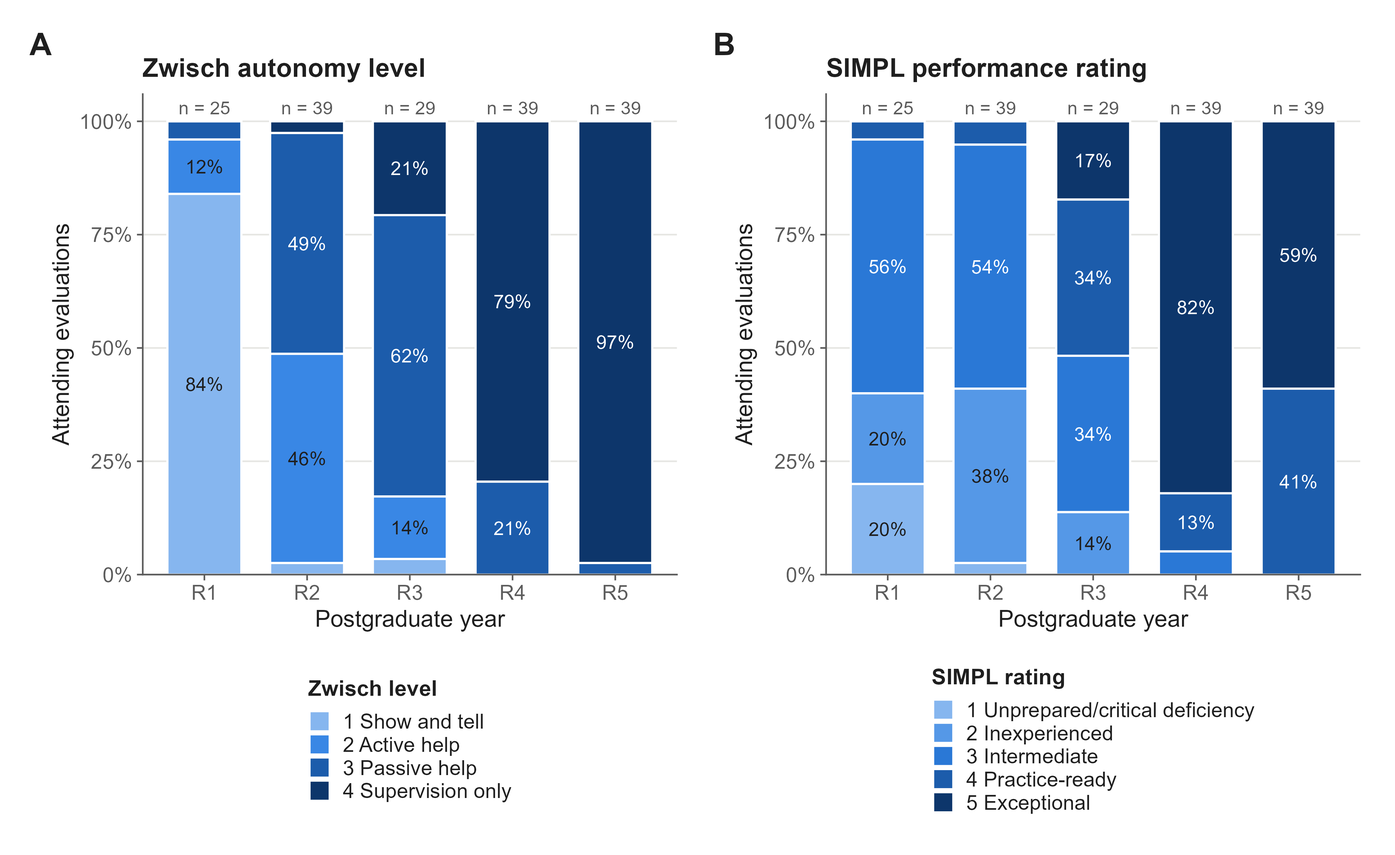
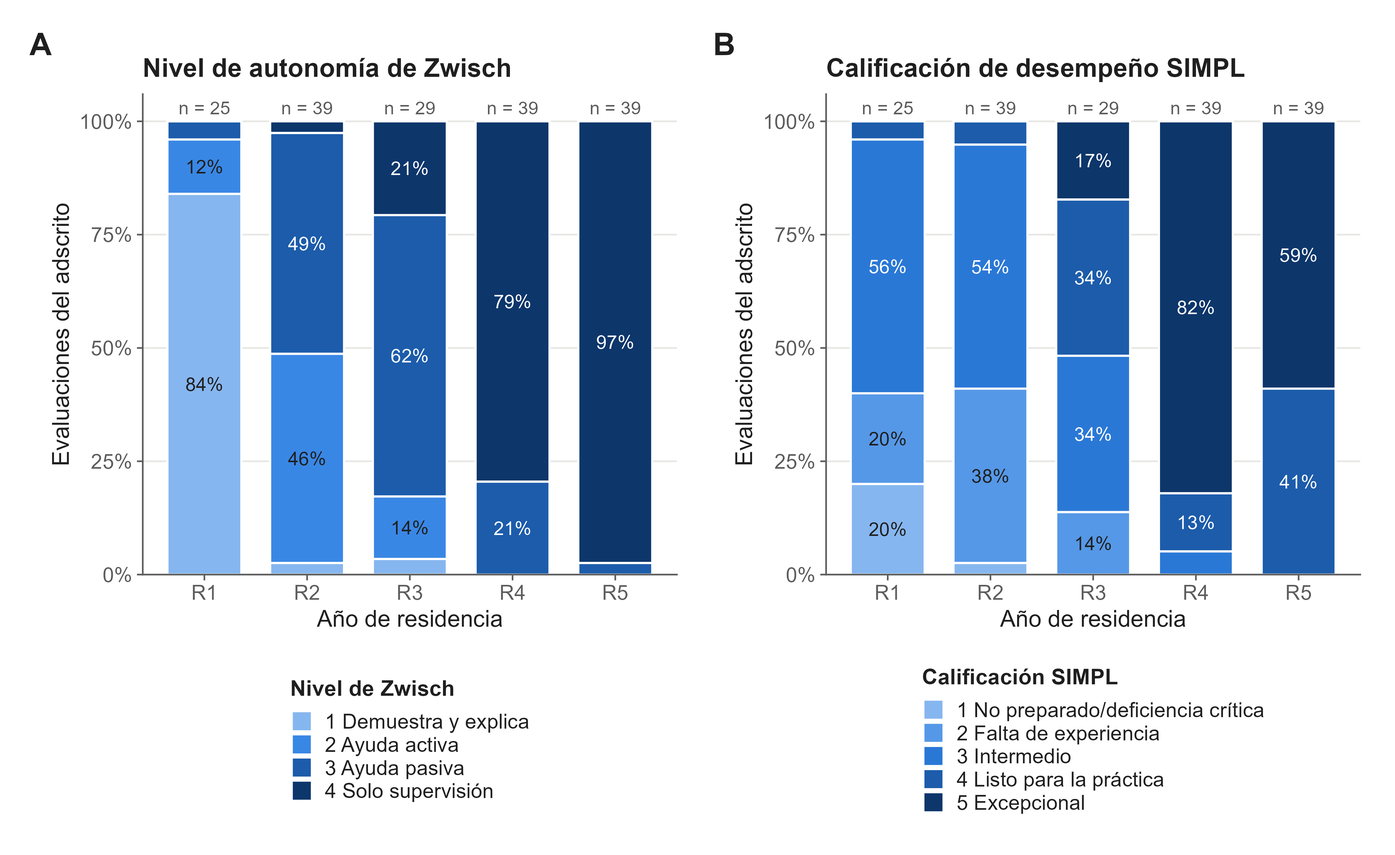
bug corrected for spanish results

diff --git a/Resultados/Figuras/Resultados/Figura_4_Resultados.md b/Resultados/Figuras/Resultados/Figura_4_Resultados.md
@@ -1,49 +1,49 @@
-# Resultados de la Figura 4 — Self vs attending ratings
+# Resultados de la Figura 4 — Autoevaluación vs calificación del adscrito
 
-_Generado el 2026-10-17 19:24 a partir de EPA_SIMPL_Database.xlsx_
+_Generado el 2026-10-17 19:42 a partir de EPA_SIMPL_Database.xlsx_
 
 **Leyenda.** 
-(A, B) Cross-classification of attending ratings (rows) and resident self-ratings (columns) for the 80 surgical cases with both an attending evaluation and a self-assessment, for (A) Zwisch autonomy level and (B) SIMPL performance rating; cell values are numbers of pairs and outlined cells mark exact agreement. (C) Mean difference between self-rating and attending rating (positive values indicate a higher self-rating) by postgraduate year and overall, with 95% CIs from a cluster bootstrap resampling residents (2,000 replicates). The dashed line marks no difference; numbers below the axis are pairs per group.
+(A, B) Clasificación cruzada de las calificaciones del adscrito (filas) y las autoevaluaciones del residente (columnas) en los 80 casos quirúrgicos con evaluación del adscrito y autoevaluación, para (A) el nivel de autonomía de Zwisch y (B) la calificación de desempeño SIMPL; los valores de las celdas son números de pares y las celdas remarcadas indican concordancia exacta. (C) Diferencia media entre la autoevaluación y la calificación del adscrito (los valores positivos indican una autoevaluación mayor) por año de residencia y en total, con IC 95% por bootstrap por conglomerados con remuestreo de residentes (2,000 réplicas). La línea discontinua indica ausencia de diferencia; los números bajo el eje son pares por grupo.
 
-## A. Zwisch cross-classification (rows = attending, columns = self; counts)
+## A. Clasificación cruzada de Zwisch (filas = adscrito, columnas = autoevaluación; conteos)
 
-Exact agreement 43/80 (53.8%); within one level 78/80 (97.5%); self higher 16, self lower 21.
+Concordancia exacta 43/80 (53.8%); dentro de un nivel 78/80 (97.5%); autoevaluación mayor 16, menor 21.
 
-|Attending \ Self |Show and tell |Active help |Passive help |Supervision only |
-|:----------------|:-------------|:-----------|:------------|:----------------|
-|Show and tell    |8             |3           |0            |0                |
-|Active help      |3             |2           |4            |1                |
-|Passive help     |0             |3           |13           |8                |
-|Supervision only |0             |1           |14           |20               |
+|Adscrito \ Autoevaluación |Demuestra y explica |Ayuda activa |Ayuda pasiva |Solo supervisión |
+|:-------------------------|:-------------------|:------------|:------------|:----------------|
+|Demuestra y explica       |8                   |3            |0            |0                |
+|Ayuda activa              |3                   |2            |4            |1                |
+|Ayuda pasiva              |0                   |3            |13           |8                |
+|Solo supervisión          |0                   |1            |14           |20               |
 
-## B. SIMPL cross-classification (rows = attending, columns = self; counts)
+## B. Clasificación cruzada de SIMPL (filas = adscrito, columnas = autoevaluación; conteos)
 
-Exact agreement 40/80 (50.0%); within one level 72/80 (90.0%); self higher 21, self lower 19.
+Concordancia exacta 40/80 (50.0%); dentro de un nivel 72/80 (90.0%); autoevaluación mayor 21, menor 19.
 
-|Attending \ Self |Unprepared |Inexperienced |Intermediate |Practice-ready |Exceptional |
-|:----------------|:----------|:-------------|:------------|:--------------|:-----------|
-|Unprepared       |0          |0             |3            |0              |0           |
-|Inexperienced    |0          |3             |3            |1              |0           |
-|Intermediate     |1          |6             |12           |3              |1           |
-|Practice-ready   |0          |0             |2            |7              |10          |
-|Exceptional      |0          |0             |2            |8              |18          |
+|Adscrito \ Autoevaluación |No preparado |Falta de experiencia |Intermedio |Listo para la práctica |Excepcional |
+|:-------------------------|:------------|:--------------------|:----------|:----------------------|:-----------|
+|No preparado              |0            |0                    |3          |0                      |0           |
+|Falta de experiencia      |0            |3                    |3          |1                      |0           |
+|Intermedio                |1            |6                    |12         |3                      |1           |
+|Listo para la práctica    |0            |0                    |2          |7                      |10          |
+|Excepcional               |0            |0                    |2          |8                      |18          |
 
-## C. Mean self − attending difference by PGY (cluster-bootstrap 95% CI)
+## C. Diferencia media autoevaluación − adscrito por año de residencia (IC 95% por bootstrap por conglomerados)
 
-Positive = resident rated self higher than the attending.
+Positivo = el residente se calificó más alto que el adscrito.
 
-|Scale  |Group   |n  |Mean difference (95% CI) |CI excludes 0 |
-|:------|:-------|:--|:------------------------|:-------------|
-|Zwisch |R1      |12 |0.17 (−0.20 a 0.60)      |no            |
-|Zwisch |R2      |12 |0.17 (−0.40 a 0.58)      |no            |
-|Zwisch |R3      |22 |−0.09 (−0.40 a 0.19)     |no            |
-|Zwisch |R4      |18 |−0.11 (−0.50 a 0.19)     |no            |
-|Zwisch |R5      |16 |−0.31 (−0.43 a −0.15)    |yes           |
-|Zwisch |Overall |80 |−0.06 (−0.23 a 0.10)     |no            |
-|SIMPL  |R1      |12 |0.08 (−0.67 a 0.70)      |no            |
-|SIMPL  |R2      |12 |0.00 (−0.33 a 0.50)      |no            |
-|SIMPL  |R3      |22 |0.23 (−0.12 a 0.53)      |no            |
-|SIMPL  |R4      |18 |−0.22 (−0.55 a 0.27)     |no            |
-|SIMPL  |R5      |16 |0.12 (−0.11 a 0.40)      |no            |
-|SIMPL  |Overall |80 |0.05 (−0.14 a 0.25)      |no            |
+|Escala |Grupo |n  |Diferencia media (IC 95%) |El IC excluye 0 |
+|:------|:-----|:--|:-------------------------|:---------------|
+|Zwisch |R1    |12 |0.17 (−0.20 a 0.60)       |no              |
+|Zwisch |R2    |12 |0.17 (−0.40 a 0.58)       |no              |
+|Zwisch |R3    |22 |−0.09 (−0.40 a 0.19)      |no              |
+|Zwisch |R4    |18 |−0.11 (−0.50 a 0.19)      |no              |
+|Zwisch |R5    |16 |−0.31 (−0.43 a −0.15)     |sí              |
+|Zwisch |Total |80 |−0.06 (−0.23 a 0.10)      |no              |
+|SIMPL  |R1    |12 |0.08 (−0.67 a 0.70)       |no              |
+|SIMPL  |R2    |12 |0.00 (−0.33 a 0.50)       |no              |
+|SIMPL  |R3    |22 |0.23 (−0.12 a 0.53)       |no              |
+|SIMPL  |R4    |18 |−0.22 (−0.55 a 0.27)      |no              |
+|SIMPL  |R5    |16 |0.12 (−0.11 a 0.40)       |no              |
+|SIMPL  |Total |80 |0.05 (−0.14 a 0.25)       |no              |
 

diff --git a/Resultados/Figuras/Resultados/Figura_2_Resultados.md b/Resultados/Figuras/Resultados/Figura_2_Resultados.md
@@ -1,24 +1,24 @@
-# Resultados de la Figura 2 — Attending ratings by postgraduate year
+# Resultados de la Figura 2 — Calificaciones del adscrito por año de residencia
 
-_Generado el 2026-10-17 19:23 a partir de EPA_SIMPL_Database.xlsx_
+_Generado el 2026-10-17 19:42 a partir de EPA_SIMPL_Database.xlsx_
 
 **Leyenda.** 
-Distribution of (A) Zwisch autonomy levels and (B) SIMPL performance ratings assigned by attending surgeons across 171 intraoperative evaluations of 35 residents, shown as the percentage of evaluations within each postgraduate year. Darker shading indicates greater autonomy or higher performance. Numbers above bars are evaluations per postgraduate year; segment labels are shown for categories representing at least 8% of evaluations.
+Distribución de (A) los niveles de autonomía de Zwisch y (B) las calificaciones de desempeño SIMPL asignados por los cirujanos adscritos en 171 evaluaciones intraoperatorias de 35 residentes, expresada como porcentaje de evaluaciones dentro de cada año de residencia. El tono más oscuro indica mayor autonomía o mejor desempeño. Los números sobre las barras son evaluaciones por año de residencia; se muestran etiquetas en los segmentos que representan al menos 8% de las evaluaciones.
 
-## A. Zwisch autonomy level, n (row %)
+## A. Nivel de autonomía de Zwisch, n (% de la fila)
 
-|PGY     |N   |1 Show and tell |2 Active help |3 Passive help |4 Supervision only |
-|:-------|:---|:---------------|:-------------|:--------------|:------------------|
-|R1      |25  |21 (84.0%)      |3 (12.0%)     |1 (4.0%)       |0 (0.0%)           |
-|R2      |39  |1 (2.6%)        |18 (46.2%)    |19 (48.7%)     |1 (2.6%)           |
-|R3      |29  |1 (3.4%)        |4 (13.8%)     |18 (62.1%)     |6 (20.7%)          |
-|R4      |39  |0 (0.0%)        |0 (0.0%)      |8 (20.5%)      |31 (79.5%)         |
-|R5      |39  |0 (0.0%)        |0 (0.0%)      |1 (2.6%)       |38 (97.4%)         |
-|Overall |171 |23 (13.5%)      |25 (14.6%)    |47 (27.5%)     |76 (44.4%)         |
+|Año   |N   |1 Demuestra y explica |2 Ayuda activa |3 Ayuda pasiva |4 Solo supervisión |
+|:-----|:---|:---------------------|:--------------|:--------------|:------------------|
+|R1    |25  |21 (84.0%)            |3 (12.0%)      |1 (4.0%)       |0 (0.0%)           |
+|R2    |39  |1 (2.6%)              |18 (46.2%)     |19 (48.7%)     |1 (2.6%)           |
+|R3    |29  |1 (3.4%)              |4 (13.8%)      |18 (62.1%)     |6 (20.7%)          |
+|R4    |39  |0 (0.0%)              |0 (0.0%)       |8 (20.5%)      |31 (79.5%)         |
+|R5    |39  |0 (0.0%)              |0 (0.0%)       |1 (2.6%)       |38 (97.4%)         |
+|Total |171 |23 (13.5%)            |25 (14.6%)     |47 (27.5%)     |76 (44.4%)         |
 
-## A. Zwisch score by PGY
+## A. Puntaje de Zwisch por año de residencia
 
-|PGY |Median (IQR)     |
+|Año |Mediana (RIC)    |
 |:---|:----------------|
 |R1  |1.00 (1.00–1.00) |
 |R2  |3.00 (2.00–3.00) |
@@ -26,20 +26,20 @@ Distribution of (A) Zwisch autonomy levels and (B) SIMPL performance ratings ass
 |R4  |4.00 (4.00–4.00) |
 |R5  |4.00 (4.00–4.00) |
 
-## B. SIMPL performance rating, n (row %)
+## B. Calificación de desempeño SIMPL, n (% de la fila)
 
-|PGY     |N   |1 Unprepared/critical deficiency |2 Inexperienced |3 Intermediate |4 Practice-ready |5 Exceptional |
-|:-------|:---|:--------------------------------|:---------------|:--------------|:----------------|:-------------|
-|R1      |25  |5 (20.0%)                        |5 (20.0%)       |14 (56.0%)     |1 (4.0%)         |0 (0.0%)      |
-|R2      |39  |1 (2.6%)                         |15 (38.5%)      |21 (53.8%)     |2 (5.1%)         |0 (0.0%)      |
-|R3      |29  |0 (0.0%)                         |4 (13.8%)       |10 (34.5%)     |10 (34.5%)       |5 (17.2%)     |
-|R4      |39  |0 (0.0%)                         |0 (0.0%)        |2 (5.1%)       |5 (12.8%)        |32 (82.1%)    |
-|R5      |39  |0 (0.0%)                         |0 (0.0%)        |0 (0.0%)       |16 (41.0%)       |23 (59.0%)    |
-|Overall |171 |6 (3.5%)                         |24 (14.0%)      |47 (27.5%)     |34 (19.9%)       |60 (35.1%)    |
+|Año   |N   |1 No preparado/deficiencia crítica |2 Falta de experiencia |3 Intermedio |4 Listo para la práctica |5 Excepcional |
+|:-----|:---|:----------------------------------|:----------------------|:------------|:------------------------|:-------------|
+|R1    |25  |5 (20.0%)                          |5 (20.0%)              |14 (56.0%)   |1 (4.0%)                 |0 (0.0%)      |
+|R2    |39  |1 (2.6%)                           |15 (38.5%)             |21 (53.8%)   |2 (5.1%)                 |0 (0.0%)      |
+|R3    |29  |0 (0.0%)                           |4 (13.8%)              |10 (34.5%)   |10 (34.5%)               |5 (17.2%)     |
+|R4    |39  |0 (0.0%)                           |0 (0.0%)               |2 (5.1%)     |5 (12.8%)                |32 (82.1%)    |
+|R5    |39  |0 (0.0%)                           |0 (0.0%)               |0 (0.0%)     |16 (41.0%)               |23 (59.0%)    |
+|Total |171 |6 (3.5%)                           |24 (14.0%)             |47 (27.5%)   |34 (19.9%)               |60 (35.1%)    |
 
-## B. SIMPL score by PGY
+## B. Puntaje SIMPL por año de residencia
 
-|PGY |Median (IQR)     |
+|Año |Mediana (RIC)    |
 |:---|:----------------|
 |R1  |3.00 (2.00–3.00) |
 |R2  |3.00 (2.00–3.00) |

diff --git a/Resultados/Figuras/Resultados/Figura_3_Resultados.md b/Resultados/Figuras/Resultados/Figura_3_Resultados.md
@@ -1,31 +1,31 @@
-# Resultados de la Figura 3 — Model-predicted probabilities
+# Resultados de la Figura 3 — Probabilidades predichas por el modelo
 
-_Generado el 2026-10-17 19:23 a partir de EPA_SIMPL_Database.xlsx_
+_Generado el 2026-10-17 19:42 a partir de EPA_SIMPL_Database.xlsx_
 
 **Leyenda.** 
-Predicted probability that the attending rated (A) the Zwisch level as supervision only and (B) SIMPL performance as practice-ready or exceptional, by postgraduate year and attending-rated case complexity. Estimates come from the mixed-effects ordinal models in Table 4 (171 attending evaluations, 35 residents), standardized over the observed procedure, surgical approach, evaluating attending, and timing, for a resident with an average random effect. Error bars are 95% CIs from 2,000 simulations of the fixed-effect parameters. Points are offset horizontally for legibility.
+Probabilidad predicha de que el adscrito calificara (A) el nivel de Zwisch como solo supervisión y (B) el desempeño SIMPL como listo para la práctica o excepcional, por año de residencia y complejidad del caso calificada por el adscrito. Las estimaciones provienen de los modelos ordinales de efectos mixtos de la Tabla 4 (171 evaluaciones del adscrito, 35 residentes), estandarizadas sobre el procedimiento, el abordaje quirúrgico, el adscrito evaluador y la fecha observados, para un residente con efecto aleatorio promedio. Las barras de error son IC 95% de 2,000 simulaciones de los parámetros fijos. Los puntos se desplazan horizontalmente para facilitar la lectura.
 
-## Method
+## Método
 
-Predicted probability of the top category(ies) from the Table 4 mixed models (171 attending evaluations, 35 residents), standardized over observed procedure, approach, attending and timing; random effect = 0; 95% CIs from 2,000 draws of the fixed effects. Model PGY aOR per year: Zwisch 27.44 (95% CI 11.00–68.44); SIMPL 7.51 (95% CI 4.02–14.01).
+Probabilidad predicha de la(s) categoría(s) superior(es) con los modelos mixtos de la Tabla 4 (171 evaluaciones del adscrito, 35 residentes), estandarizada sobre procedimiento, abordaje, adscrito y fecha observados; efecto aleatorio = 0; IC 95% de 2,000 simulaciones de los efectos fijos. RMa del año de residencia por año: Zwisch 27.44 (IC 95% 11.00–68.44); SIMPL 7.51 (IC 95% 4.02–14.01).
 
-## A. P(Zwisch = supervision only), % (95% CI), by case complexity
+## A. P(Zwisch = solo supervisión), % (IC 95%), por complejidad del caso
 
-|PGY   |NA                |
-|:-----|:-----------------|
-|PGY-1 |0.0% (0.0–0.2)    |
-|PGY-2 |0.3% (0.1–2.3)    |
-|PGY-3 |7.9% (2.8–24.5)   |
-|PGY-4 |66.8% (38.8–85.6) |
-|PGY-5 |98.1% (89.3–99.6) |
+|Año |Fácil             |Moderada          |Difícil           |
+|:---|:-----------------|:-----------------|:-----------------|
+|R1  |0.0% (0.0–0.2)    |0.0% (0.0–0.5)    |0.0% (0.0–0.3)    |
+|R2  |0.3% (0.1–2.3)    |1.3% (0.4–5.9)    |0.6% (0.1–4.0)    |
+|R3  |7.9% (2.8–24.5)   |25.2% (13.3–45.4) |14.5% (5.8–35.3)  |
+|R4  |66.8% (38.8–85.6) |88.7% (71.9–95.6) |79.7% (57.6–91.1) |
+|R5  |98.1% (89.3–99.6) |99.5% (96.8–99.9) |99.0% (94.3–99.8) |
 
-## B. P(SIMPL = practice-ready or exceptional), % (95% CI), by case complexity
+## B. P(SIMPL = listo para la práctica o excepcional), % (IC 95%), por complejidad del caso
 
-|PGY   |NA                |
-|:-----|:-----------------|
-|PGY-1 |0.9% (0.2–4.7)    |
-|PGY-2 |6.1% (2.1–18.7)   |
-|PGY-3 |32.6% (15.6–58.2) |
-|PGY-4 |78.1% (50.9–91.9) |
-|PGY-5 |96.4% (82.1–99.2) |
+|Año |Fácil             |Moderada          |Difícil           |
+|:---|:-----------------|:-----------------|:-----------------|
+|R1  |0.9% (0.2–4.7)    |2.7% (0.7–11.2)   |2.7% (0.5–13.3)   |
+|R2  |6.1% (2.1–18.7)   |17.4% (7.4–37.8)  |16.9% (6.1–41.3)  |
+|R3  |32.6% (15.6–58.2) |60.9% (39.6–78.8) |60.1% (36.3–80.2) |
+|R4  |78.1% (50.9–91.9) |92.0% (77.6–97.2) |91.8% (76.7–97.2) |
+|R5  |96.4% (82.1–99.2) |98.9% (93.9–99.7) |98.8% (93.8–99.7) |
 

diff --git a/Resultados/Figuras/Leyendas/Figura_4_Leyenda.md b/Resultados/Figuras/Leyendas/Figura_4_Leyenda.md
@@ -1,3 +1,3 @@
-**Figure 4. Agreement Between Resident Self-Assessment and Attending Rating**
+**Figura 4. Concordancia entre la autoevaluación del residente y la calificación del adscrito**
 
-(A, B) Cross-classification of attending ratings (rows) and resident self-ratings (columns) for the 80 surgical cases with both an attending evaluation and a self-assessment, for (A) Zwisch autonomy level and (B) SIMPL performance rating; cell values are numbers of pairs and outlined cells mark exact agreement. (C) Mean difference between self-rating and attending rating (positive values indicate a higher self-rating) by postgraduate year and overall, with 95% CIs from a cluster bootstrap resampling residents (2,000 replicates). The dashed line marks no difference; numbers below the axis are pairs per group.
+(A, B) Clasificación cruzada de las calificaciones del adscrito (filas) y las autoevaluaciones del residente (columnas) en los 80 casos quirúrgicos con evaluación del adscrito y autoevaluación, para (A) el nivel de autonomía de Zwisch y (B) la calificación de desempeño SIMPL; los valores de las celdas son números de pares y las celdas remarcadas indican concordancia exacta. (C) Diferencia media entre la autoevaluación y la calificación del adscrito (los valores positivos indican una autoevaluación mayor) por año de residencia y en total, con IC 95% por bootstrap por conglomerados con remuestreo de residentes (2,000 réplicas). La línea discontinua indica ausencia de diferencia; los números bajo el eje son pares por grupo.

diff --git a/Resultados/Figuras/Leyendas/Figura_3_Leyenda.md b/Resultados/Figuras/Leyendas/Figura_3_Leyenda.md
@@ -1,3 +1,3 @@
-**Figure 3. Model-Predicted Probability of Supervision-Only Autonomy and Practice-Ready Performance**
+**Figura 3. Probabilidad predicha por el modelo de autonomía de solo supervisión y de desempeño listo para la práctica**
 
-Predicted probability that the attending rated (A) the Zwisch level as supervision only and (B) SIMPL performance as practice-ready or exceptional, by postgraduate year and attending-rated case complexity. Estimates come from the mixed-effects ordinal models in Table 4 (171 attending evaluations, 35 residents), standardized over the observed procedure, surgical approach, evaluating attending, and timing, for a resident with an average random effect. Error bars are 95% CIs from 2,000 simulations of the fixed-effect parameters. Points are offset horizontally for legibility.
+Probabilidad predicha de que el adscrito calificara (A) el nivel de Zwisch como solo supervisión y (B) el desempeño SIMPL como listo para la práctica o excepcional, por año de residencia y complejidad del caso calificada por el adscrito. Las estimaciones provienen de los modelos ordinales de efectos mixtos de la Tabla 4 (171 evaluaciones del adscrito, 35 residentes), estandarizadas sobre el procedimiento, el abordaje quirúrgico, el adscrito evaluador y la fecha observados, para un residente con efecto aleatorio promedio. Las barras de error son IC 95% de 2,000 simulaciones de los parámetros fijos. Los puntos se desplazan horizontalmente para facilitar la lectura.

diff --git a/Resultados/Figuras/Leyendas/Figura_2_Leyenda.md b/Resultados/Figuras/Leyendas/Figura_2_Leyenda.md
@@ -1,3 +1,3 @@
-**Figure 2. Attending-Rated Intraoperative Autonomy and Performance by Postgraduate Year**
+**Figura 2. Autonomía y desempeño intraoperatorios calificados por el adscrito por año de residencia**
 
-Distribution of (A) Zwisch autonomy levels and (B) SIMPL performance ratings assigned by attending surgeons across 171 intraoperative evaluations of 35 residents, shown as the percentage of evaluations within each postgraduate year. Darker shading indicates greater autonomy or higher performance. Numbers above bars are evaluations per postgraduate year; segment labels are shown for categories representing at least 8% of evaluations.
+Distribución de (A) los niveles de autonomía de Zwisch y (B) las calificaciones de desempeño SIMPL asignados por los cirujanos adscritos en 171 evaluaciones intraoperatorias de 35 residentes, expresada como porcentaje de evaluaciones dentro de cada año de residencia. El tono más oscuro indica mayor autonomía o mejor desempeño. Los números sobre las barras son evaluaciones por año de residencia; se muestran etiquetas en los segmentos que representan al menos 8% de las evaluaciones.

diff --git a/Resultados/Figuras/Resultados/Figura_1_Resultados.md b/Resultados/Figuras/Resultados/Figura_1_Resultados.md
@@ -1,6 +1,6 @@
 # Resultados de la Figura 1 — Gráfico de bosque de las razones de momios ajustadas
 
-_Generado el 2026-10-17 19:20 a partir de EPA_SIMPL_Database.xlsx_
+_Generado el 2026-10-17 19:38 a partir de EPA_SIMPL_Database.xlsx_
 
 **Leyenda.** 
 Gráfico de bosque de las razones de momios ajustadas (RMa) e IC 95% de los modelos de regresión ordinal de efectos mixtos del nivel de autonomía de Zwisch (izquierda) y de la calificación de desempeño SIMPL (derecha), con base en 171 evaluaciones del adscrito de 35 residentes de Cirugía General. Los modelos incluyeron el año de residencia (por cada año adicional), la complejidad del caso, el procedimiento, el abordaje quirúrgico, el adscrito evaluador y el tiempo desde el inicio del estudio, con un intercepto aleatorio por residente. Los valores >1 indican mayor probabilidad de una calificación más alta. Los cuadros marcan las razones de momios ajustadas y las líneas horizontales sus IC 95%; la línea discontinua marca una razón de momios de 1; el eje x está en escala logarítmica.

diff --git a/Resultados/Figuras/Resultados/Figura_5_Resultados.md b/Resultados/Figuras/Resultados/Figura_5_Resultados.md
@@ -1,6 +1,6 @@
 # Resultados de la Figura 5 — Tendencias durante el periodo de estudio
 
-_Generado el 2026-10-17 19:24 a partir de EPA_SIMPL_Database.xlsx_
+_Generado el 2026-10-17 19:42 a partir de EPA_SIMPL_Database.xlsx_
 
 **Leyenda.** 
 Puntaje medio calificado por el adscrito de (A) autonomía de Zwisch y (B) desempeño SIMPL por mes de evaluación y año de residencia (171 evaluaciones del adscrito, 35 residentes); el tamaño del punto refleja el número de evaluaciones de cada mes. (C) Número acumulado de evaluaciones del adscrito y de autoevaluaciones de los residentes durante el periodo de estudio (abril–agosto de 2026). En los modelos ajustados de la Tabla 4, la razón de momios por mes de estudio fue 1.00 (IC 95% 0.74–1.35; P = .998) para Zwisch y 1.10 (IC 95% 0.85–1.42; P = .483) para SIMPL.

diff --git a/Resultados/Figuras/Resultados/Figura_6_Resultados.md b/Resultados/Figuras/Resultados/Figura_6_Resultados.md
@@ -1,6 +1,6 @@
 # Resultados de la Figura 6 — Factibilidad y aceptabilidad
 
-_Generado el 2026-10-17 19:24 a partir de EPA_SIMPL_Database.xlsx_
+_Generado el 2026-10-17 19:42 a partir de EPA_SIMPL_Database.xlsx_
 
 **Leyenda.** 
 (A) Barras apiladas divergentes de las respuestas a los reactivos de percepción de 5 puntos en los formularios de evaluación del adscrito (n = 171) y de autoevaluación del residente (n = 81); las barras están centradas en la respuesta neutral, con las calificaciones menores a la izquierda y las mayores a la derecha. Los números a la derecha indican el porcentaje de formularios que calificaron el reactivo con 4 o 5. (B) Distribución del tiempo autorreportado para completar cada formulario de evaluación.

diff --git a/Resultados/Figuras/Resultados/Figura_S2_Resultados.md b/Resultados/Figuras/Resultados/Figura_S2_Resultados.md
@@ -1,6 +1,6 @@
 # Resultados de la Figura S2 — Calificaciones por adscrito
 
-_Generado el 2026-10-17 19:24 a partir de EPA_SIMPL_Database.xlsx_
+_Generado el 2026-10-17 19:42 a partir de EPA_SIMPL_Database.xlsx_
 
 **Leyenda.** 
 Distribución de (A) los niveles de autonomía de Zwisch y (B) las calificaciones de desempeño SIMPL asignados por cada uno de los 3 adscritos evaluadores (171 evaluaciones del adscrito). Las distribuciones no están ajustadas y reflejan en parte el año de residencia de los residentes que evaluó cada adscrito (Tabla suplementaria S3); las estimaciones ajustadas por adscrito se muestran en la Tabla 4.

diff --git a/Resultados/Figuras/Resultados/Figura_S1_Resultados.md b/Resultados/Figuras/Resultados/Figura_S1_Resultados.md
@@ -1,6 +1,6 @@
 # Resultados de la Figura S1 — Zwisch × SIMPL
 
-_Generado el 2026-10-17 19:24 a partir de EPA_SIMPL_Database.xlsx_
+_Generado el 2026-10-17 19:42 a partir de EPA_SIMPL_Database.xlsx_
 
 **Leyenda.** 
 Clasificación cruzada del nivel de autonomía de Zwisch y de la calificación de desempeño SIMPL asignados por el adscrito en la misma evaluación (171 evaluaciones del adscrito, 35 residentes); los valores de las celdas son números de evaluaciones. Las correlaciones son ρ de Spearman y τ-b de Kendall, con IC 95% por bootstrap por conglomerados con remuestreo de residentes (2,000 réplicas).

diff --git a/Resultados/Figuras/Resultados/Figura_Diagrama_de_Flujo.md b/Resultados/Figuras/Resultados/Figura_Diagrama_de_Flujo.md
@@ -56,4 +56,4 @@ Flujo de formularios de evaluación, casos quirúrgicos y residentes en el estud
 |Evaluaciones del adscrito tras excluir casos marcados           | 141|
 |Casos pareados tras excluir casos marcados                      |  76|
 
-_Generado el 2026-10-17 19:24 a partir de EPA_SIMPL_Database.xlsx. Los formularios incompletos (n = 41) se capturan manualmente en EPA_Flowchart.R._
+_Generado el 2026-10-17 19:42 a partir de EPA_SIMPL_Database.xlsx. Los formularios incompletos (n = 41) se capturan manualmente en EPA_Flowchart.R._
